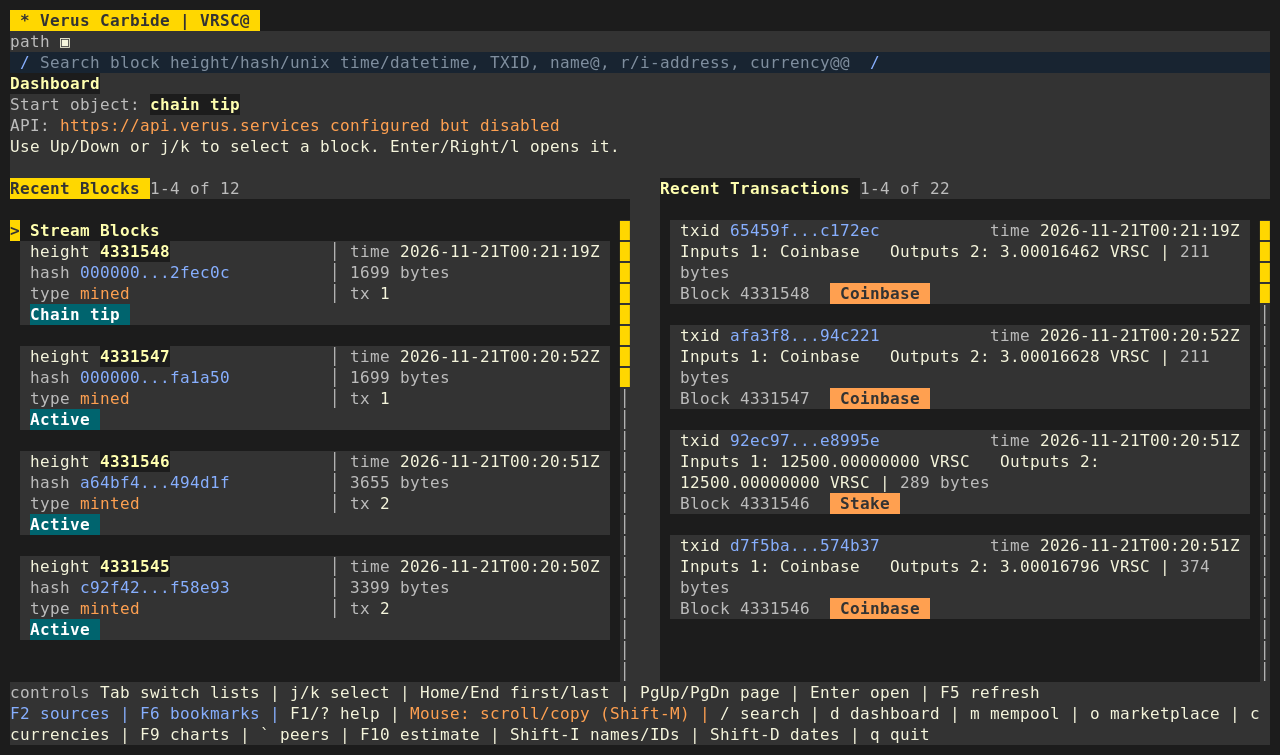
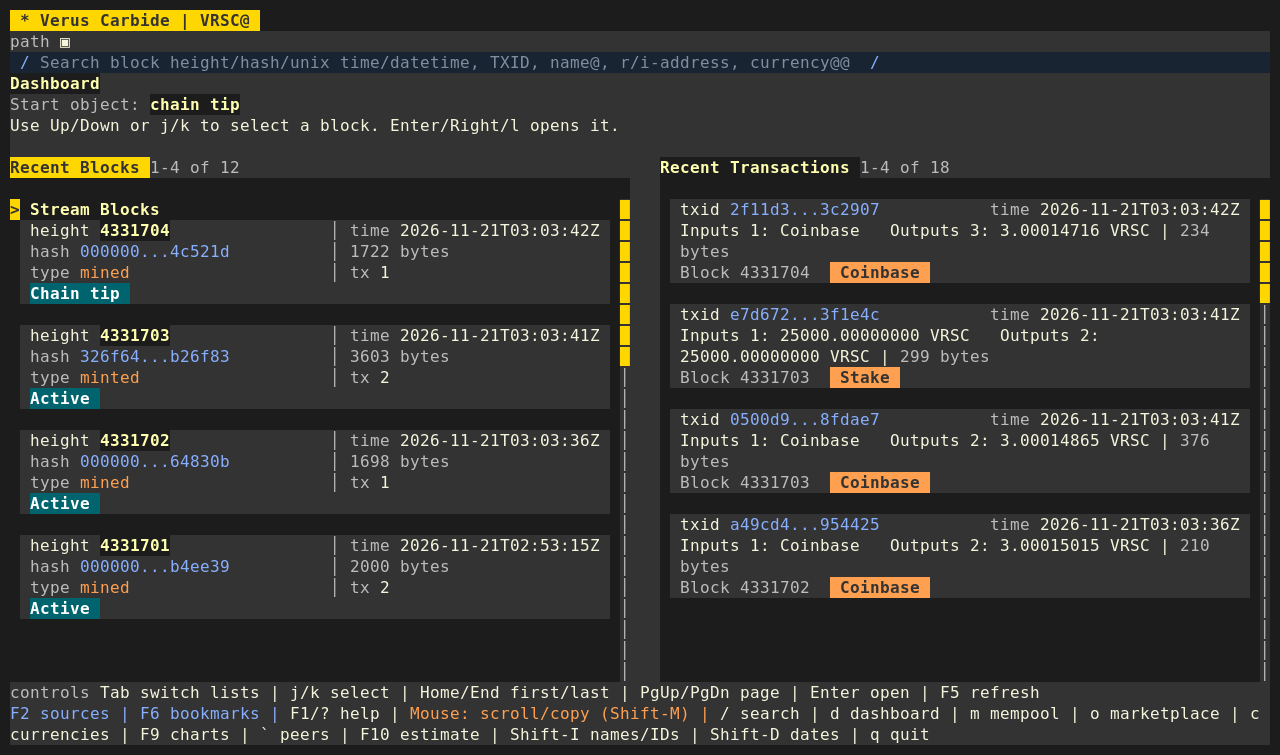
Cleanup of prior API work, better examples and minor tweaks for README.

diff --git a/src/app.rs b/src/app.rs
@@ -1301,7 +1301,7 @@ pub async fn run(
     for source in &registry.configs {
         let endpoint = format!("http://{}:{}", source.daemon.host, source.daemon.port);
         cache.register_source(
-            &source.source_cache_key("local-daemon"),
+            &source.daemon_cache_key(),
             &source.chain_cache_key(),
             &endpoint,
         )?;
@@ -3088,7 +3088,7 @@ async fn cached_rpc_response(
     params_json: &str,
 ) -> Result<Option<(Value, String)>> {
     let cache = Cache::open(&config.cache_path)?;
-    let mut sources = vec![config.source_cache_key("local-daemon")];
+    let mut sources = vec![config.daemon_cache_key()];
     sources.extend(
         config
             .daemon
@@ -12128,7 +12128,7 @@ fn render_dashboard(
 ) -> Range<usize> {
     let body = Layout::default()
         .direction(Direction::Vertical)
-        .constraints([Constraint::Length(6), Constraint::Min(3)])
+        .constraints([Constraint::Length(5), Constraint::Min(3)])
         .split(area);
 
     let summary = Paragraph::new(vec![
@@ -12147,10 +12147,6 @@ fn render_dashboard(
                     theme.negative()
                 },
             ),
-        ]),
-        Line::from(vec![
-            Span::styled("API: ", theme.muted()),
-            Span::styled(public_api_label(config), theme.warning()),
         ]),
         Line::from("Use Up/Down or j/k to select a block. Enter/Right/l opens it."),
     ])
@@ -18004,14 +18000,6 @@ fn current_unix_timestamp() -> i64 {
     time::OffsetDateTime::now_utc().unix_timestamp()
 }
 
-fn public_api_label(config: &Config) -> String {
-    if config.public_api.fallback_enabled || config.public_api.fork_analysis_enabled {
-        format!("{} enabled as configured", config.public_api.base_url)
-    } else {
-        format!("{} configured but disabled", config.public_api.base_url)
-    }
-}
-
 fn config_file_label(config: &Config) -> String {
     config
         .daemon
@@ -18961,11 +18949,6 @@ mod tests {
                 background: false,
             },
             api_consent: true,
-            public_api: crate::config::PublicApiConfig {
-                fallback_enabled: false,
-                fork_analysis_enabled: false,
-                base_url: String::new(),
-            },
             cache_path: PathBuf::new(),
             emoji: crate::cli::EmojiMode::Off,
             poll_interval_seconds: 3,
@@ -19122,7 +19105,7 @@ mod tests {
         let cache = Cache::open(&config.cache_path).unwrap();
         cache
             .put_raw_rpc(
-                &config.source_cache_key("local-daemon"),
+                &config.daemon_cache_key(),
                 &config.chain_cache_key(),
                 "getrawtransaction",
                 "[\"pending\",1]",
@@ -19364,11 +19347,6 @@ mod tests {
                 background: false,
             },
             api_consent: true,
-            public_api: crate::config::PublicApiConfig {
-                fallback_enabled: false,
-                fork_analysis_enabled: false,
-                base_url: String::new(),
-            },
             cache_path: cache_path.clone(),
             emoji: crate::cli::EmojiMode::Off,
             poll_interval_seconds: 3,
@@ -19378,7 +19356,7 @@ mod tests {
         let cache = Cache::open(&cache_path).expect("open test cache");
         cache
             .put_raw_rpc(
-                &config.source_cache_key("local-daemon"),
+                &config.daemon_cache_key(),
                 &config.chain_cache_key(),
                 "getrawtransaction",
                 &params_json,
@@ -19561,8 +19539,8 @@ mod tests {
                 .unwrap();
             let buffer = terminal.backend().buffer();
             let midpoint = width / 2;
-            assert_eq!(buffer[(midpoint + 2, 6)].bg, theme.accent);
-            for y in 6..20 {
+            assert_eq!(buffer[(midpoint + 2, 5)].bg, theme.accent);
+            for y in 5..20 {
                 for x in midpoint - 1..midpoint + 2 {
                     let cell = &buffer[(x, y)];
                     assert_eq!(cell.symbol(), " ");
@@ -19597,7 +19575,7 @@ mod tests {
             let rail_x = width / 2 - 2;
             let gutter_x = rail_x - 1;
             let tile_x = gutter_x - 1;
-            let first_block_y = 7 + SECTION_HEADING_HEIGHT;
+            let first_block_y = 6 + SECTION_HEADING_HEIGHT;
             let first_block = state
                 .store
                 .block(&state.dashboard.recent_blocks[0])
@@ -21053,11 +21031,6 @@ mod tests {
                 background: false,
             },
             api_consent: true,
-            public_api: crate::config::PublicApiConfig {
-                fallback_enabled: false,
-                fork_analysis_enabled: false,
-                base_url: String::new(),
-            },
             cache_path: std::path::PathBuf::new(),
             emoji: crate::cli::EmojiMode::Off,
             poll_interval_seconds: 3,

diff --git a/src/sources.rs b/src/sources.rs
@@ -470,27 +470,11 @@ impl Registry {
             if let Some(id) = config.chain.system_id.get() {
                 let _ = config.daemon.control.expected.set((id.clone(), network));
             }
-            let mut apis: Vec<_> = saved
-                .apis
-                .iter()
-                .filter(|api| {
-                    api.network == network
-                        && crate::world::system_id(&api.chain, network).ok().as_ref()
-                            == config.chain.system_id.get()
-                })
-                .cloned()
-                .collect();
-            if apis.is_empty()
-                && network == Network::Mainnet
-                && config.chain.name.eq_ignore_ascii_case("VRSC")
-            {
-                apis.push(SavedApi {
-                    network,
-                    chain: config.chain.name.clone(),
-                    endpoint: config.public_api.base_url.clone(),
-                    enabled: config.public_api.fallback_enabled,
-                });
-            }
+            let apis = saved.apis.iter().filter(|api| {
+                api.network == network
+                    && crate::world::system_id(&api.chain, network).ok().as_ref()
+                        == config.chain.system_id.get()
+            });
             let mut endpoints = Vec::new();
             for api in apis {
                 let parsed = reqwest::Url::parse(&api.endpoint).context("invalid API URL")?;
@@ -510,7 +494,7 @@ impl Registry {
                     ConnectionState::Disabled
                 });
                 endpoints.push(ApiEndpoint {
-                    url: api.endpoint,
+                    url: api.endpoint.clone(),
                     control,
                     retry_after: Default::default(),
                 });
@@ -626,8 +610,6 @@ fn config_from_file(
             .set_identity_index(value == "1" || value.eq_ignore_ascii_case("true"));
     }
     config.daemon.control.set(state);
-    config.public_api.fallback_enabled = false;
-    config.public_api.fork_analysis_enabled = false;
     Ok(config)
 }
 

diff --git a/src/config.rs b/src/config.rs
@@ -11,7 +11,6 @@ use crate::cli::{Cli, EmojiMode};
 pub struct Config {
     pub chain: ChainSelection,
     pub daemon: DaemonConfig,
-    pub public_api: PublicApiConfig,
     /// Optional hydration must not request permission, including in nested loaders.
     pub api_consent: bool,
     pub cache_path: PathBuf,
@@ -38,13 +37,6 @@ pub struct DaemonConfig {
     pub control: std::sync::Arc<crate::sources::Control>,
     pub observations:
         Option<tokio::sync::mpsc::UnboundedSender<crate::chain_state::RpcObservation>>,
-}
-
-#[derive(Debug, Clone)]
-pub struct PublicApiConfig {
-    pub fallback_enabled: bool,
-    pub fork_analysis_enabled: bool,
-    pub base_url: String,
 }
 
 impl Config {
@@ -108,11 +100,6 @@ impl Config {
                 background: false,
             },
             api_consent: true,
-            public_api: PublicApiConfig {
-                fallback_enabled: cli.api_fallback,
-                fork_analysis_enabled: cli.fork_api,
-                base_url: "https://api.verus.services".to_string(),
-            },
             cache_path: default_cache_path(network),
             emoji: cli.emoji,
             poll_interval_seconds,
@@ -143,16 +130,9 @@ impl Config {
             .unwrap_or_default()
     }
 
-    pub fn source_cache_key(&self, source: &str) -> String {
-        if source.contains(':') {
-            return source.to_string();
-        }
-        let locator = if source == "public-api" {
-            self.public_api.base_url.clone()
-        } else {
-            format!("http://{}:{}", self.daemon.host, self.daemon.port)
-        };
-        crate::rpc::source_id(source, &locator)
+    pub fn daemon_cache_key(&self) -> String {
+        let locator = format!("http://{}:{}", self.daemon.host, self.daemon.port);
+        crate::rpc::source_id("local-daemon", &locator)
     }
 
     pub fn bind_system(&self, info: &serde_json::Value) -> Result<()> {

diff --git a/tests/search_terminal.py b/tests/search_terminal.py
@@ -50,6 +50,8 @@ class Daemon(http.server.BaseHTTPRequestHandler):
             value = [TRANSACTION]
         elif method == 'getcurrency' and params[0] != OTHER_CURRENCY:
             value = dict(currencyid=params[0], name='VRSC', systemid=VRSC)
+        elif method in ('getblock', 'getblockheader') and params[0] == MISSING_TX:
+            error = dict(code=-5, message='Block not found')
         elif method in ('getblock', 'getblockheader'):
             block = TARGET if params[0] == TARGET else TIP
             value = dict(hash=block, height=0 if block == TARGET else 1,
@@ -78,6 +80,11 @@ def run():
             conf.write_text(f'rpcconnect=127.0.0.1\nrpcport={server.server_port}\nrpcuser=test\nrpcpassword=test\n')
             terminal = Terminal(root, conf)
             try:
+                terminal.key(b'/' + MISSING_TX.encode() + b'\r', 1)
+                screen = terminal.screen()
+                assert 'not found as a transaction' in screen, screen
+                assert 'API communication requires permission' not in screen, screen
+
                 terminal.key(b'/' + TARGET.encode() + b'\r', 1)
                 screen = terminal.screen()
                 assert 'API communication requires permission' not in screen, screen

diff --git a/src/app/currency_browser.rs b/src/app/currency_browser.rs
@@ -115,15 +115,14 @@ pub(super) fn spawn(config: Config, tx: UnboundedSender<AppEvent>, request: u64)
         let cached =
             tokio::task::spawn_blocking(move || -> Result<Option<(Vec<Entry>, String)>> {
                 let cache = Cache::open(&cached_config.cache_path)?;
-                let sources = std::iter::once(cached_config.source_cache_key("local-daemon"))
-                    .chain(
-                        cached_config
-                            .daemon
-                            .api_pool
-                            .endpoints
-                            .iter()
-                            .map(|endpoint| crate::rpc::source_id("public-api", &endpoint.url)),
-                    );
+                let sources = std::iter::once(cached_config.daemon_cache_key()).chain(
+                    cached_config
+                        .daemon
+                        .api_pool
+                        .endpoints
+                        .iter()
+                        .map(|endpoint| crate::rpc::source_id("public-api", &endpoint.url)),
+                );
                 for source in sources {
                     if let Some(raw) = cache.raw_rpc_response(
                         &source,

diff --git a/src/cli.rs b/src/cli.rs
@@ -45,12 +45,6 @@ pub struct Cli {
     #[arg(long = "rpcpassword", value_name = "PASSWORD")]
     pub rpc_password: Option<String>,
 
-    #[arg(long = "api-fallback")]
-    pub api_fallback: bool,
-
-    #[arg(long = "fork-api")]
-    pub fork_api: bool,
-
     #[arg(long = "emoji", value_enum, default_value = "auto")]
     pub emoji: EmojiMode,
 
@@ -96,8 +90,6 @@ fn normalize_verus_style_args(args: impl IntoIterator<Item = OsString>) -> Vec<O
     args.into_iter()
         .map(|arg| match arg.to_str() {
             Some("-testnet") => OsString::from("--testnet"),
-            Some("-api-fallback") => OsString::from("--api-fallback"),
-            Some("-fork-api") => OsString::from("--fork-api"),
             Some("-chain") => OsString::from("--chain"),
             Some("-datadir") => OsString::from("--datadir"),
             Some(value) if value.starts_with("-datadir=") => {

diff --git a/src/witnesses.rs b/src/witnesses.rs
@@ -170,7 +170,7 @@ fn collect_signatures(value: &Value, origins: &[Origin], report: &mut Report, de
 }
 
 fn source_label(config: &Config, source: &str) -> String {
-    if source == config.source_cache_key("local-daemon") {
+    if source == config.daemon_cache_key() {
         return format!(
             "{} daemon {}:{}",
             config.chain.name, config.daemon.host, config.daemon.port
@@ -210,7 +210,7 @@ impl Fetcher {
         );
         let params = json!([txid, 1]).to_string();
         let cache = Cache::open(&self.config.cache_path)?;
-        let mut sources = vec![self.config.source_cache_key("local-daemon")];
+        let mut sources = vec![self.config.daemon_cache_key()];
         sources.extend(
             self.config
                 .daemon

diff --git a/src/app/chart_ui.rs b/src/app/chart_ui.rs
@@ -1018,7 +1018,7 @@ async fn load_inner(
         });
     };
     let mut known_view = view.clone();
-    let mut sources = vec![config.source_cache_key("local-daemon")];
+    let mut sources = vec![config.daemon_cache_key()];
     sources.extend(
         config
             .daemon
@@ -2363,7 +2363,7 @@ mod tests {
             .daemon
             .control
             .set(crate::sources::ConnectionState::Disabled);
-        let source = config.source_cache_key("local-daemon");
+        let source = config.daemon_cache_key();
         let cache = Cache::open(&config.cache_path).unwrap();
         for height in 0..=1 {
             let raw = header(height, height * 60, height == 1);

diff --git a/src/reconciliation.rs b/src/reconciliation.rs
@@ -157,7 +157,7 @@ impl Reconciler {
         config.daemon.observations = None;
         let client = RpcClient::for_config(&config)?.noninteractive();
         let cache = Cache::open(&config.cache_path)?;
-        let source = config.source_cache_key("local-daemon");
+        let source = config.daemon_cache_key();
         let state = cache
             .reconciliation_state(&config.chain_cache_key(), &source)
             .await?;

diff --git a/src/app/source_ui/activity.rs b/src/app/source_ui/activity.rs
@@ -77,7 +77,7 @@ fn selected_source(config: &Config, api: Option<usize>) -> (String, String) {
     let source = if let Some(api) = api {
         crate::rpc::source_id("public-api", &config.daemon.api_pool.endpoints[api].url)
     } else {
-        config.source_cache_key("local-daemon")
+        config.daemon_cache_key()
     };
     (config.chain_cache_key(), source)
 }

diff --git a/README.md b/README.md
@@ -33,8 +33,7 @@ Carbide starts on VRSC and discovers daemon configurations in the standard Verus
 
 ```sh
 ./target/release/vcarbide 4226272
-./target/release/vcarbide 'vARRR@@'
-./target/release/vcarbide -chain=vARRR
+./target/release/vcarbide -chain=VRSC 'vETH@@'
 ```
 
 Use `-testnet` for testnet or `-conf=/path/to/daemon.conf` for a nonstandard daemon configuration. For toolchain and portable build instructions, see the [build notes](BUILD.md).
@@ -64,28 +63,28 @@ Press `/`, enter a value, then press `Enter`. A search opens a new navigation ro
 | A transaction ID | Transaction overview, inputs and outputs |
 | `1788700744` or `2026-09-06 13:19:04 UTC` | Block nearest the requested time among the headers checked |
 | `2026-09-06` | Block near midnight UTC on that date |
-| `vARRR@` or its i-address | Identity, authorities, registration and activity |
+| `vETH@` or its i-address | Identity, authorities, registration and activity |
 | `RXPzH3i4fZaaPFdkVHWKRDgXDqrFXErEGz` | Transparent recipient from the walkthrough |
-| `vARRR@@` | Currency definition and state on the current chain |
+| `vETH@@` | Currency definition and state on the current chain |
 
 Use the arrows or `j`/`k` to select, `Enter` or Right to follow, and `Esc` to close or go back. Press `q` to quit. The footer lists actions for the current view. `F1` or `?` opens Help. In data views, `Shift-I` toggles names and raw identity addresses, and `Shift-D` shows dates for supported heights and timestamps.
 
 ## Identities, currencies and notarizations
 
-Open `vARRR@` and look for **Currency defined**. Press `c` to switch between the identity and its currency. The identity shows signing authorities, registration evidence and transaction history. The currency shows definition flags, launch status, state and the height and time of its last confirmed notarization.
+Open `vETH@` and look for **Currency defined**. Press `c` to switch between the identity and its currency. The identity shows signing authorities, registration evidence and transaction history. The currency shows definition flags, launch status, state and the height and time of its last confirmed notarization.
 
-![vARRR identity with primary addresses, authority information and registration evidence](docs/images/identity.png)
+![vETH identity with primary addresses, authority information and registration evidence](docs/images/identity.png)
 
 <details>
 <summary>See the associated currency definition</summary>
 
-![vARRR currency showing its launch status, notarization links and definition flags](docs/images/currency.png)
+![vETH currency showing its launch status, notarization links and definition flags](docs/images/currency.png)
 
 </details>
 
-Press `n` on the currency to browse confirmed and pending notarizations. Read the perspective above the list. In this capture, VRSC reports one confirmed and one unconfirmed vARRR notarization. **No source configured for this chain** means Carbide has no vARRR source to check the foreign proof root. With both daemons available, `Tab` switches perspectives. Open a row with `Enter`, then use `F4` in the transaction to investigate witness signatures.
+Press `n` on the currency to browse confirmed and pending notarizations. The screenshot shows the VRSC perspective on the vETH gateway, with the proof-root heights for both systems and the age of each notarization on VRSC. Open a row with `Enter`, then use `F4` in the transaction to investigate witness signatures.
 
-![VRSC perspective on vARRR notarizations showing confirmation status and both systems’ proof-root heights](docs/images/notarizations.png)
+![VRSC perspective on vETH notarizations showing confirmation status and both systems’ proof-root heights](docs/images/notarizations.png)
 
 ## Charts and time
 
